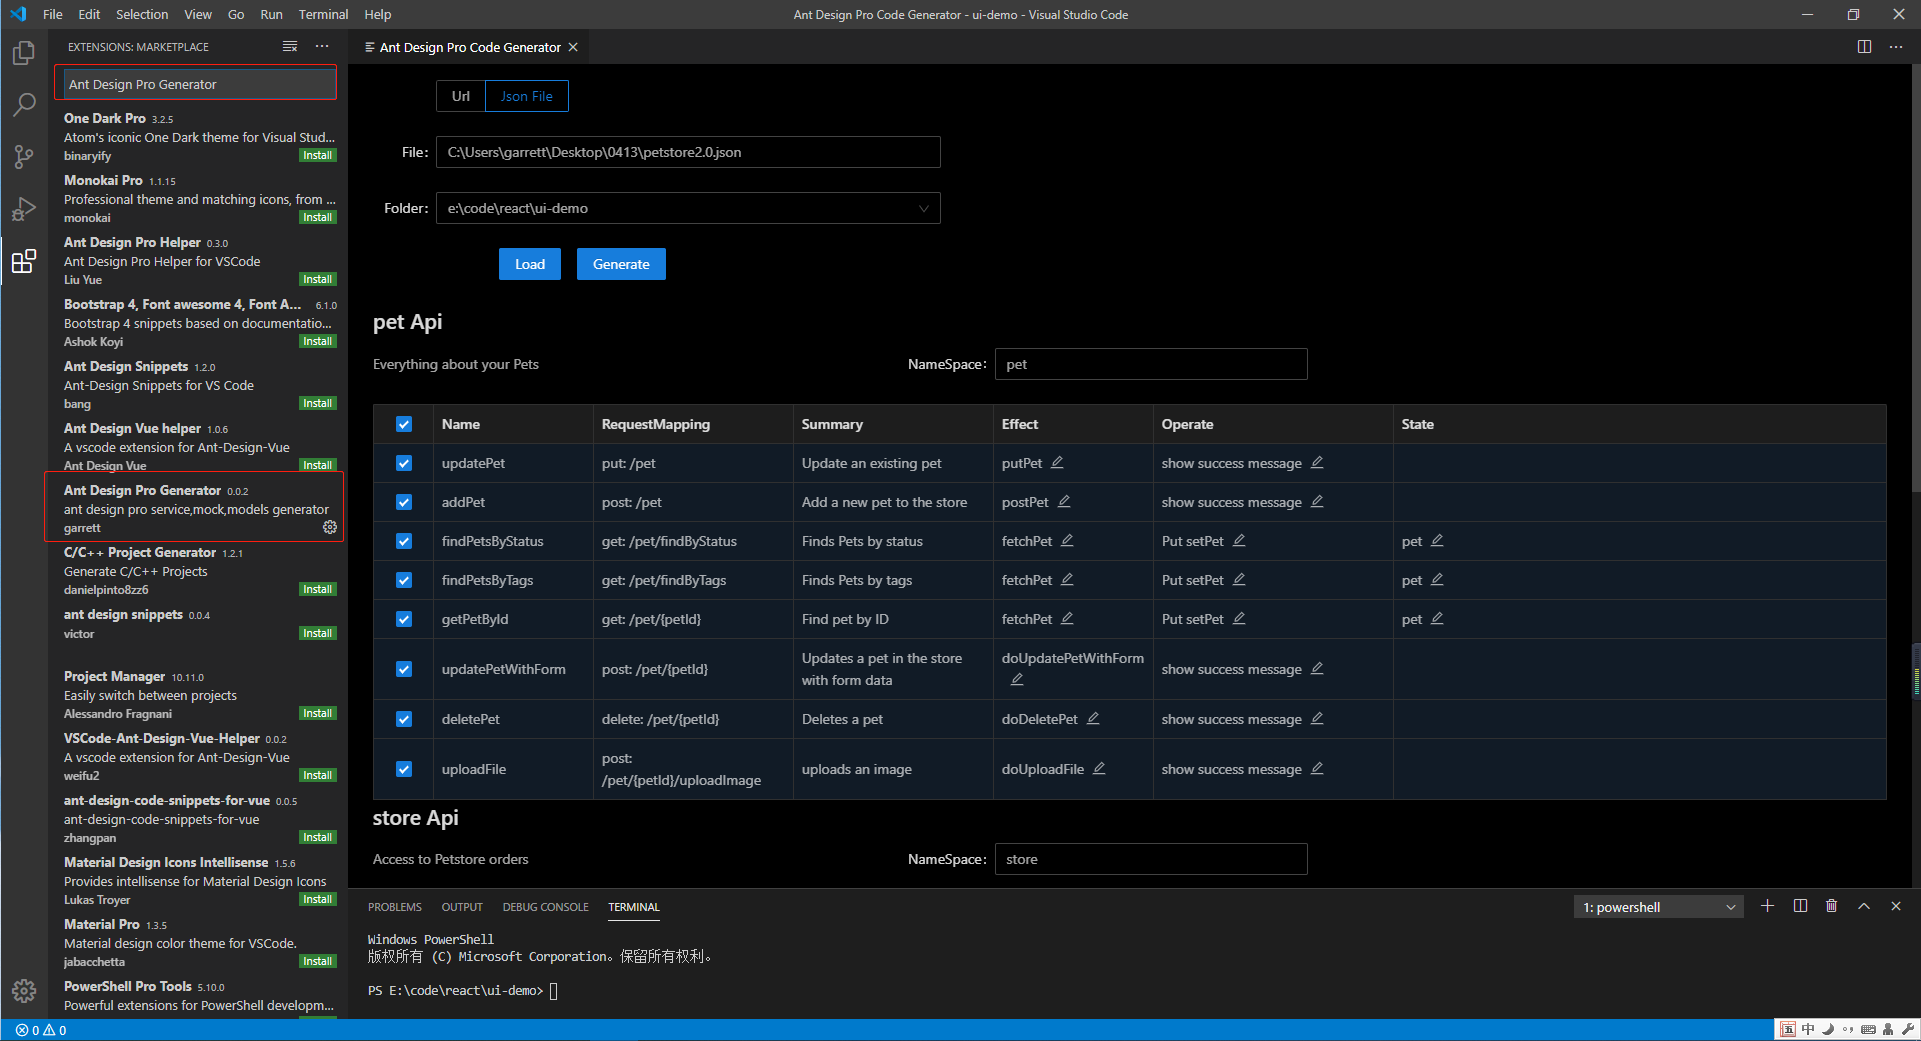
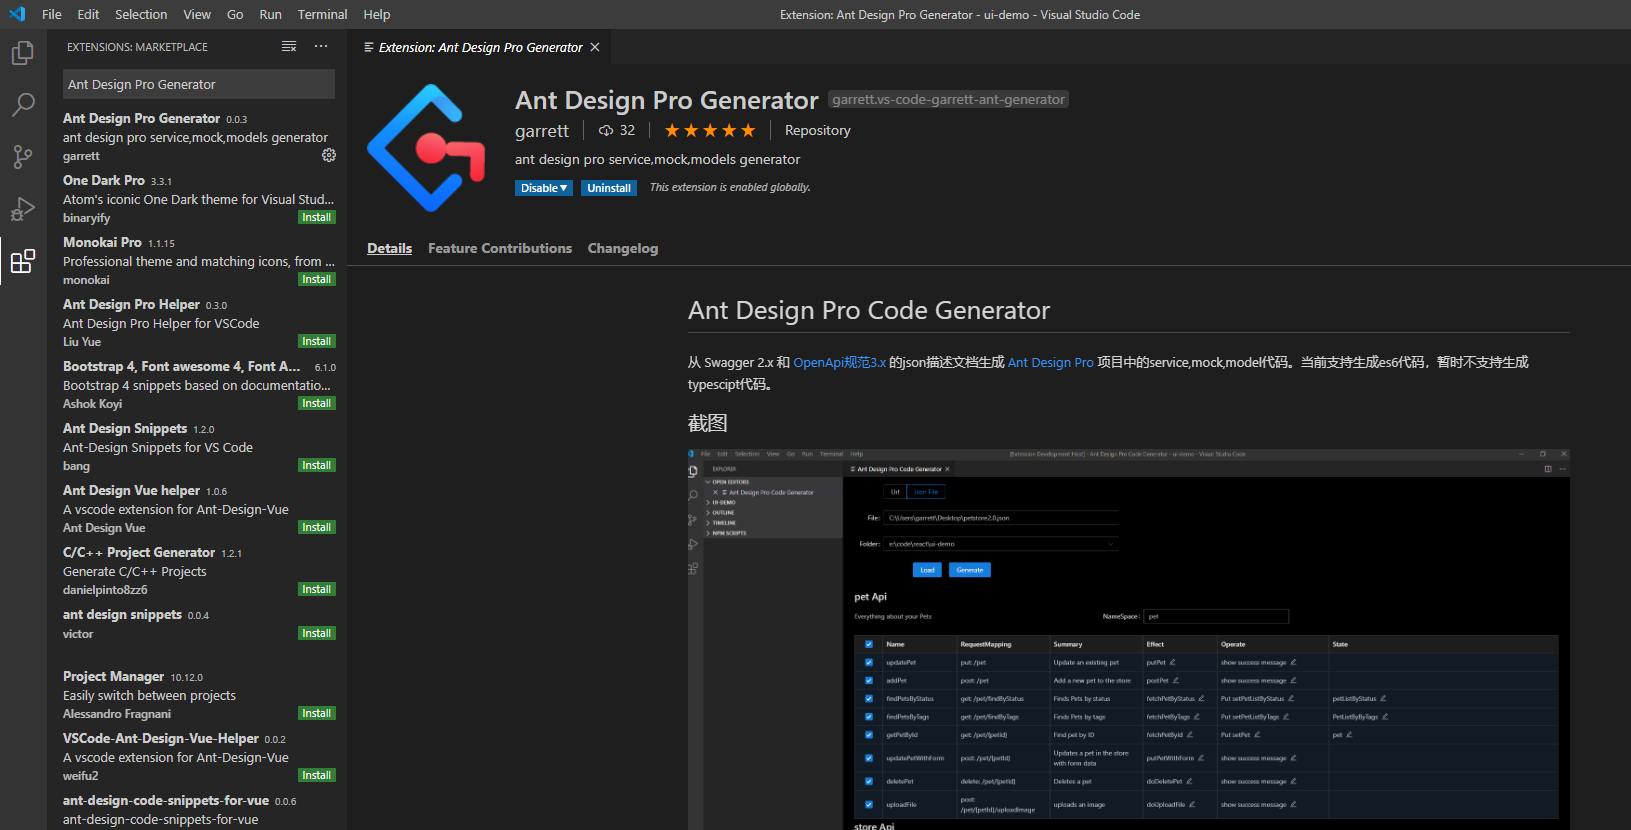
effect生成可选
effect生成可选
增加license
其它小修改

diff --git a/antd-generator-ui/src/App.js b/antd-generator-ui/src/App.js
@@ -7,7 +7,8 @@ import {
   Form,
   message,
   Radio,
-  Modal
+  Modal,
+  Checkbox
 } from "antd";
 import {
   EditOutlined,
@@ -16,7 +17,8 @@ import {
 } from "@ant-design/icons";
 import webService from "../webService";
 import extService from "../extService";
-import { operateType, objectToMap } from "./constants";
+import { operateType } from "./constants";
+import { objectToMap } from "antd-generator-core/utils";
 import "./App.css";
 
 const caseType = {
@@ -182,7 +184,7 @@ class App extends Component {
     for (let tag of data.tags.values()) {
       const apis = tag.apis.filter(api => selectKeySet.has(api.key));
       for (let api of apis.values()) {
-        if (api.stateEditting && api.state === "") {
+        if (api.stateEditting && api.state === "" && api.effect) {
           api.stateError = true;
           this.setState({ data: { ...data } });
           message.error("state name is required!", 2, () =>
@@ -190,7 +192,7 @@ class App extends Component {
           );
           return false;
         }
-        if (api.effectEditting && api.effectName === "") {
+        if (api.effectEditting && api.effectName === "" && api.effect) {
           api.effectError = true;
           this.setState({ data: { ...data } });
           message.error("effect name is required!", 2, () =>
@@ -291,9 +293,30 @@ class App extends Component {
     },
     {
       title: "Effect",
+      colSpan: 2,
+      dataIndex: "effect",
+      width: 20,
+      render: (val, record) => {
+        return (
+          <Checkbox
+            onChange={e => {
+              record.effect = e.target.checked;
+              this.setState({ data: { ...this.state.data } });
+            }}
+            checked={val}
+          ></Checkbox>
+        );
+      }
+    },
+    {
+      title: "EffectName",
+      colSpan: 0,
       dataIndex: "effectName",
       width: 160,
       render: (val, record) => {
+        if (record.effect === false) {
+          return "";
+        }
         const accept = value => {
           if (value === "") {
             message.error("effectName is required!");
@@ -348,6 +371,9 @@ class App extends Component {
       dataIndex: "operate",
       width: 240,
       render: (val, record) => {
+        if (record.effect === false) {
+          return "";
+        }
         let text = "";
         switch (val) {
           case operateType.PUT_REDUCER:
@@ -375,6 +401,9 @@ class App extends Component {
       title: "State",
       dataIndex: "state",
       render: (val, record) => {
+        if (record.effect === false) {
+          return "";
+        }
         if (record.operate !== operateType.PUT_REDUCER) {
           return "";
         }

diff --git a/antd-generator-core/generator.js b/antd-generator-core/generator.js
@@ -44,28 +44,34 @@ function generate(genParam) {
         summary,
         operate,
         reducer,
+        effect,
         state,
         successText,
         name: serviceFunction
       } = api;
-      effects.push({
-        name: effectName,
-        summary: summary,
-        service: name,
-        serviceFunction,
-        operate,
-        reducer,
-        state,
-        successText
-      });
-      if (operate === operateType.PUT_REDUCER) {
-        states.push({ name: state, type: "object", value: "undefined" });
-        reducers.push({ name: reducer, stateName: state });
+      if (effect) {
+        effects.push({
+          name: effectName,
+          summary: summary,
+          service: name,
+          serviceFunction,
+          operate,
+          reducer,
+          state,
+          successText
+        });
+        if (operate === operateType.PUT_REDUCER) {
+          states.push({ name: state, type: "object", value: "undefined" });
+          reducers.push({ name: reducer, stateName: state });
+        }
       }
     }
     return { name, namespace, states, reducers, effects };
   });
-  generateModels(models, modelPath);
+  generateModels(
+    models.filter(m => m.effects.length > 0),
+    modelPath
+  );
 }
 
 function generateModels(models, distPath) {

diff --git a/antd-generator-ui/config-overrides.js b/antd-generator-ui/config-overrides.js
@@ -2,8 +2,6 @@ const {
   override,
   fixBabelImports,
   removeModuleScopePlugin,
-  addWebpackResolve,
-  addWebpackModuleRule,
   overrideDevServer,
   watchAll
 } = require("customize-cra");
@@ -63,18 +61,21 @@ module.exports = {
   ),
   devServer: overrideDevServer(
     // dev server plugin
-    config => ({
-      ...config,
-      proxy: {
-        "/": {
-          target: "http://localhost:8081",
-          changeOrigin: true,
-          pathRewrite: {
-            "^/": ""
+    config => {
+      console.log("config....", config);
+      return {
+        ...config,
+        proxy: {
+          "/": {
+            target: "http://localhost:8081",
+            changeOrigin: true,
+            pathRewrite: {
+              "^/": ""
+            }
           }
         }
-      }
-    }),
+      };
+    },
     watchAll()
   )
 };

diff --git a/antd-generator-core/ApiObjectBuilder.js b/antd-generator-core/ApiObjectBuilder.js
@@ -95,6 +95,7 @@ function resolve(apiDoc) {
       queryParams: [],
       formParams: [],
       headerParams: [],
+      effect: true,
       name: obj.operationId,
       effectName: obj.operationId,
       description: obj.description,

diff --git a/README.md b/README.md
@@ -37,9 +37,9 @@ vscode插件项目
 
 3. 先build一下antd-generator-core，如果antd-generator-core有修改，也要build一样其它两个项目才能引用到最新的代码。
 
-4. 在antd-generator-ui目录下运行 npm start，ui运行端口默认3000，同时运行一个express 服务器，端口8081，web请求的链接通过代理到8081
+4. 在antd-generator-ui目录下运行 npm start，ui运行端口默认3001，同时运行一个express 服务器，端口8081，web请求的链接通过代理到8081
 
-## 调试web.js 和lib
+## 调试web.js 和antd-generator-core
 
    1. 在ui项目建调试配置，配置详情如下：
 

diff --git a/antd-pro-generator/CHANGELOG.md b/antd-pro-generator/CHANGELOG.md
@@ -4,4 +4,5 @@ All notable changes to the "garrett-ant-generator" extension will be documented 
 Check [Keep a Changelog](http://keepachangelog.com/) for recommendations on how to structure this file.
 
 ## [Unreleased]
-- Initial release
+- Initial release 0.02
+- Made Effect,Reducer Optional 0.03

diff --git a/antd-pro-generator/readme.md b/antd-pro-generator/readme.md
@@ -4,9 +4,9 @@
 
 ## 截图
 
-![](../screen_shot.png)
+![](https://github.com/garrett12138/antd-pro-generator/raw/master/screen_shot.png)
 
-![](../screen_shot2.png)
+![](https://github.com/garrett12138/antd-pro-generator/raw/master/screen_shot2.png)
 
 ## 使用说明
 
